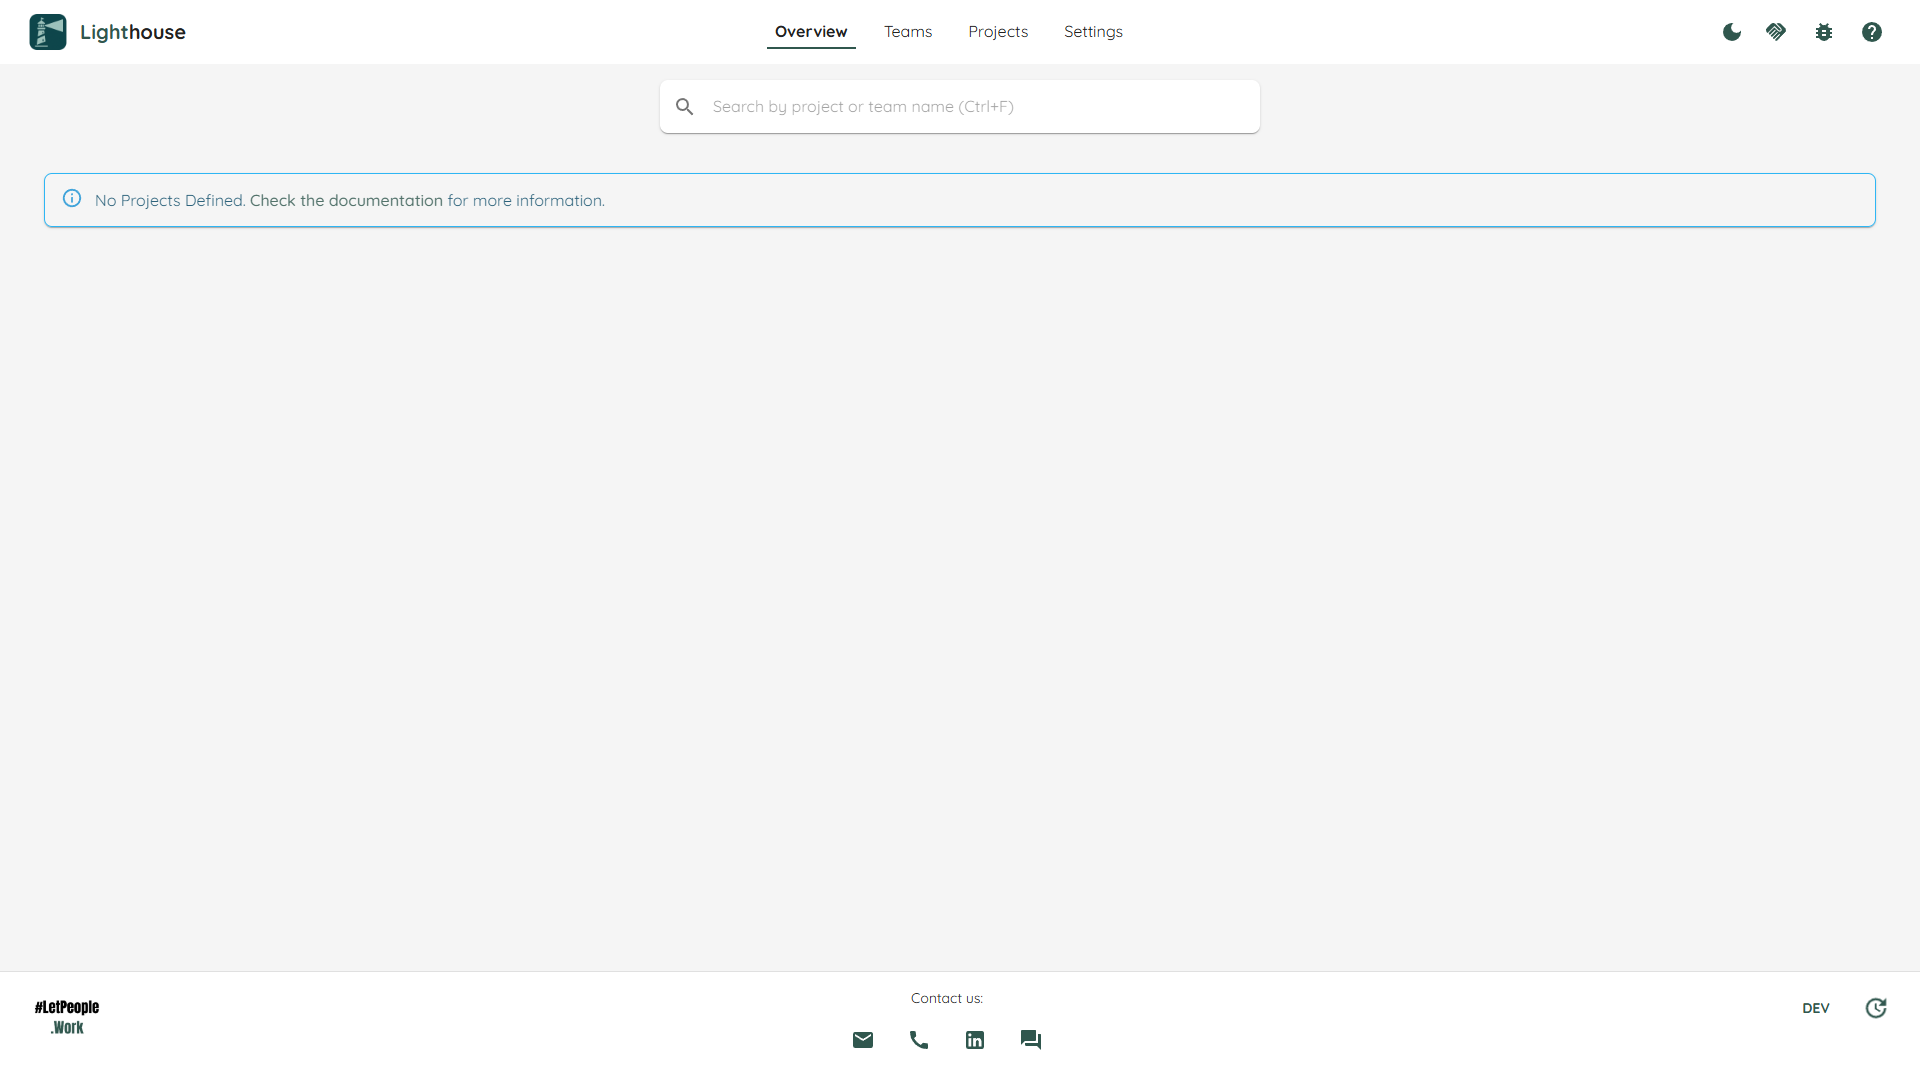
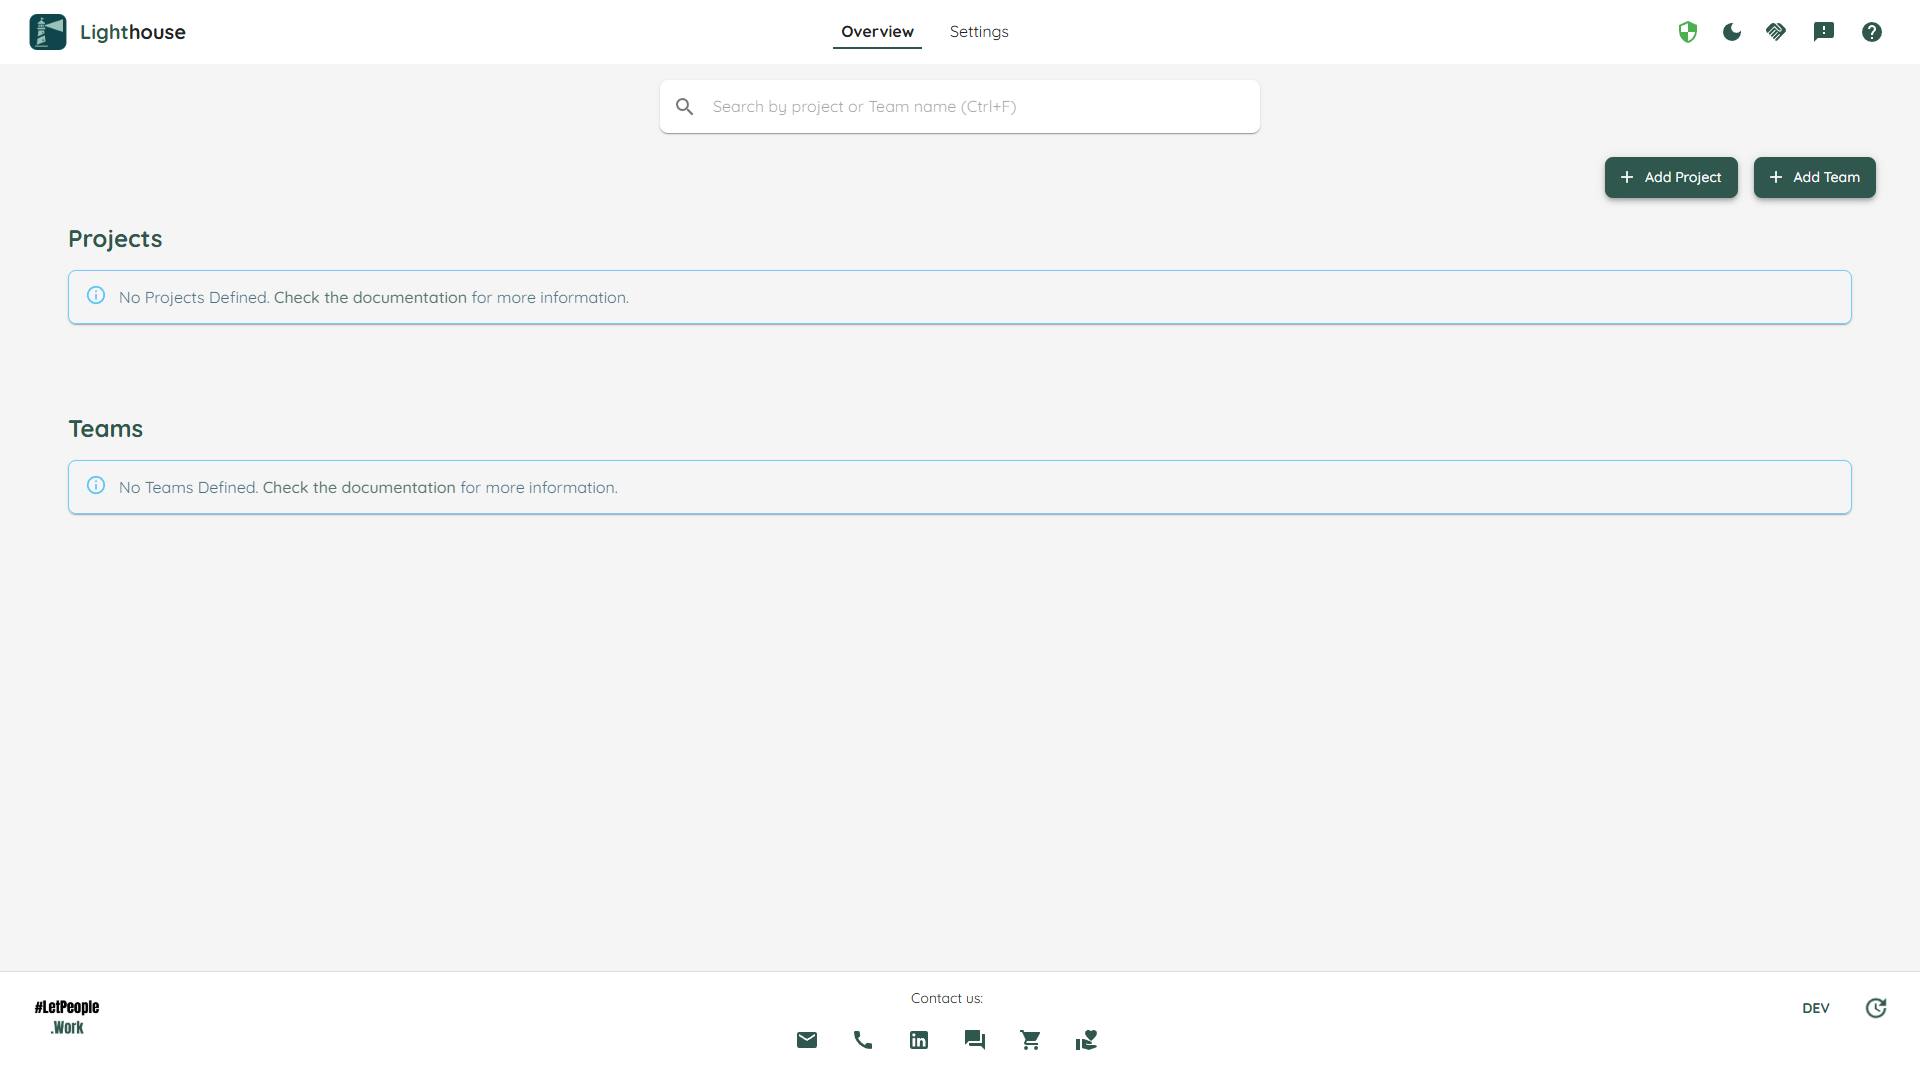
Fix failing e2e test

diff --git a/Lighthouse.EndToEndTests/tests/models/overview/OverviewPage.ts b/Lighthouse.EndToEndTests/tests/models/overview/OverviewPage.ts
@@ -126,6 +126,6 @@ export class OverviewPage {
 	}
 
 	get toolbar(): Locator {
-		return this.page.getByText("LighthouseOverviewTeamsProjectsSettings");
+		return this.page.getByText("LighthouseOverviewSettings");
 	}
 }
